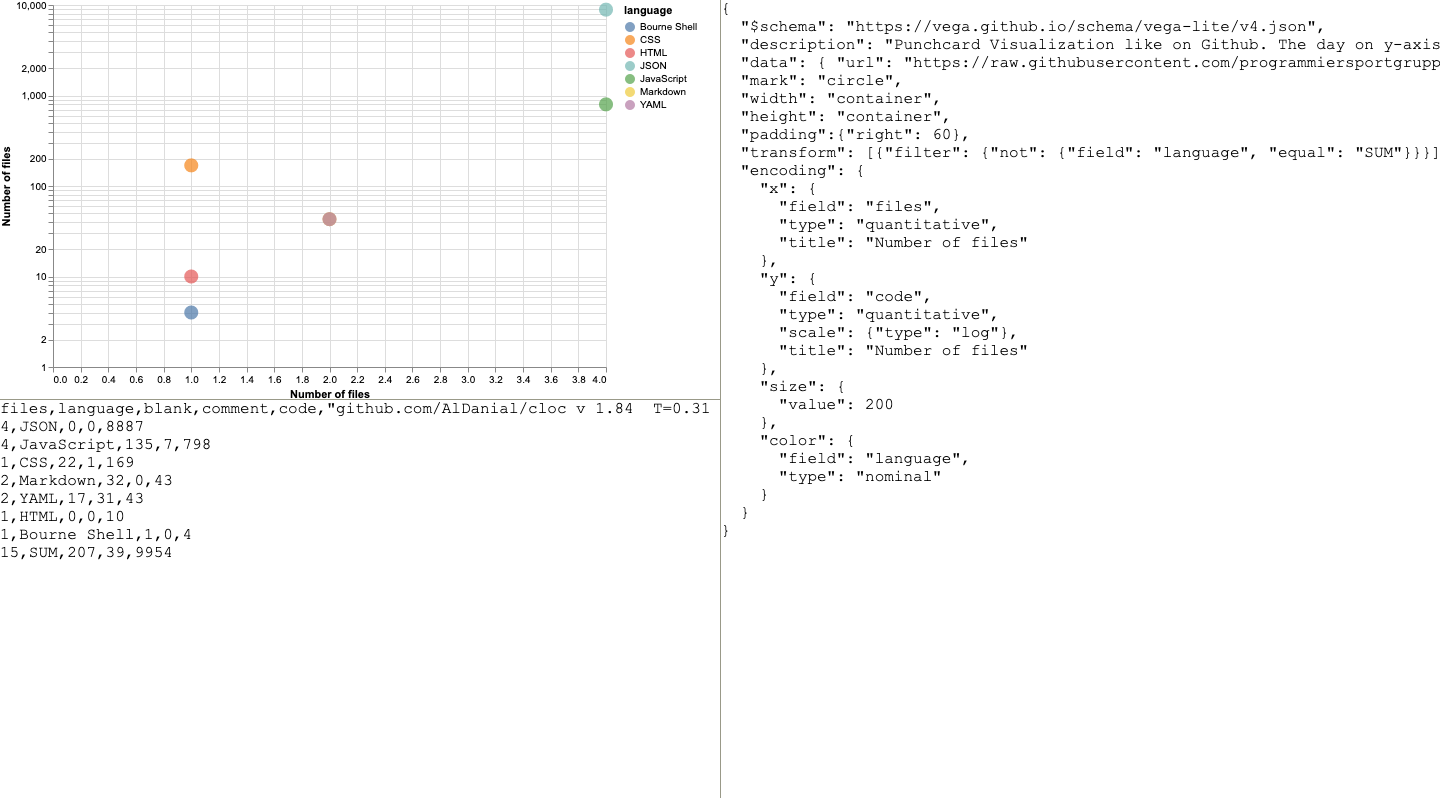
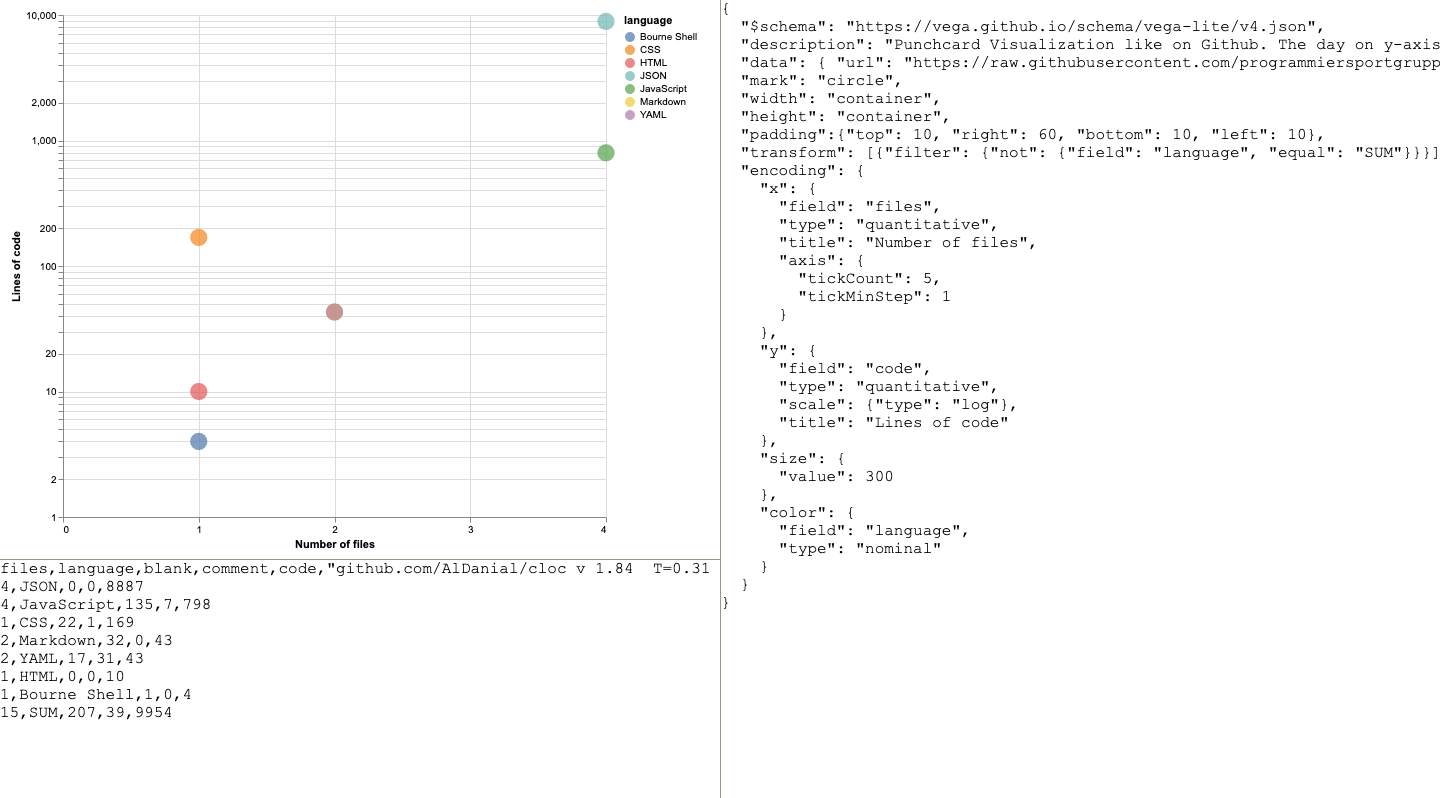
Update vega example

diff --git a/README.md b/README.md
@@ -195,10 +195,10 @@ View specification prefixs: `vega`, `vega-inline`.
 Renders [Vega](https://vega.github.io/vega/) and [Vega-Lite](https://vega.github.io/vega-lite/) graphs.
 
 ```
-https://flexivis.infrastruktur.link/?layout=(a-c)/b&a=vega:https://raw.githubusercontent.com/programmiersportgruppe/flexivis/master/docs/samples/cloc.json&b=text:https://raw.githubusercontent.com/programmiersportgruppe/flexivis/master/docs/samples/cloc.json&c=text:https://raw.githubusercontent.com/programmiersportgruppe/flexivis/master/docs/samples/cloc.csv
+https://flexivis.infrastruktur.link/?layout=(a-c30)/b&a=vega:https://raw.githubusercontent.com/programmiersportgruppe/flexivis/master/docs/samples/cloc.json&b=text:https://raw.githubusercontent.com/programmiersportgruppe/flexivis/master/docs/samples/cloc.json&c=text:https://raw.githubusercontent.com/programmiersportgruppe/flexivis/master/docs/samples/cloc.csv
 ```
 
-<a href="https://flexivis.infrastruktur.link/?layout=(a-c)/b&amp;a=vega:https://raw.githubusercontent.com/programmiersportgruppe/flexivis/master/docs/samples/cloc.json&amp;b=text:https://raw.githubusercontent.com/programmiersportgruppe/flexivis/master/docs/samples/cloc.json&amp;c=text:https://raw.githubusercontent.com/programmiersportgruppe/flexivis/master/docs/samples/cloc.csv"><img alt="rendering of the URL shown above" src="docs/images/example-vega-1.png" style="border: 1px solid #ccc; max-height: 300px"/></a>
+<a href="https://flexivis.infrastruktur.link/?layout=(a-c30)/b&amp;a=vega:https://raw.githubusercontent.com/programmiersportgruppe/flexivis/master/docs/samples/cloc.json&amp;b=text:https://raw.githubusercontent.com/programmiersportgruppe/flexivis/master/docs/samples/cloc.json&amp;c=text:https://raw.githubusercontent.com/programmiersportgruppe/flexivis/master/docs/samples/cloc.csv"><img alt="rendering of the URL shown above" src="docs/images/example-vega-1.png" style="border: 1px solid #ccc; max-height: 300px"/></a>
 
 You can specify the graph by putting JSON in the URL. The JSON can then load values by URL (like the JSON shown in the previous example), or you can embed the values in the JSON.
 
